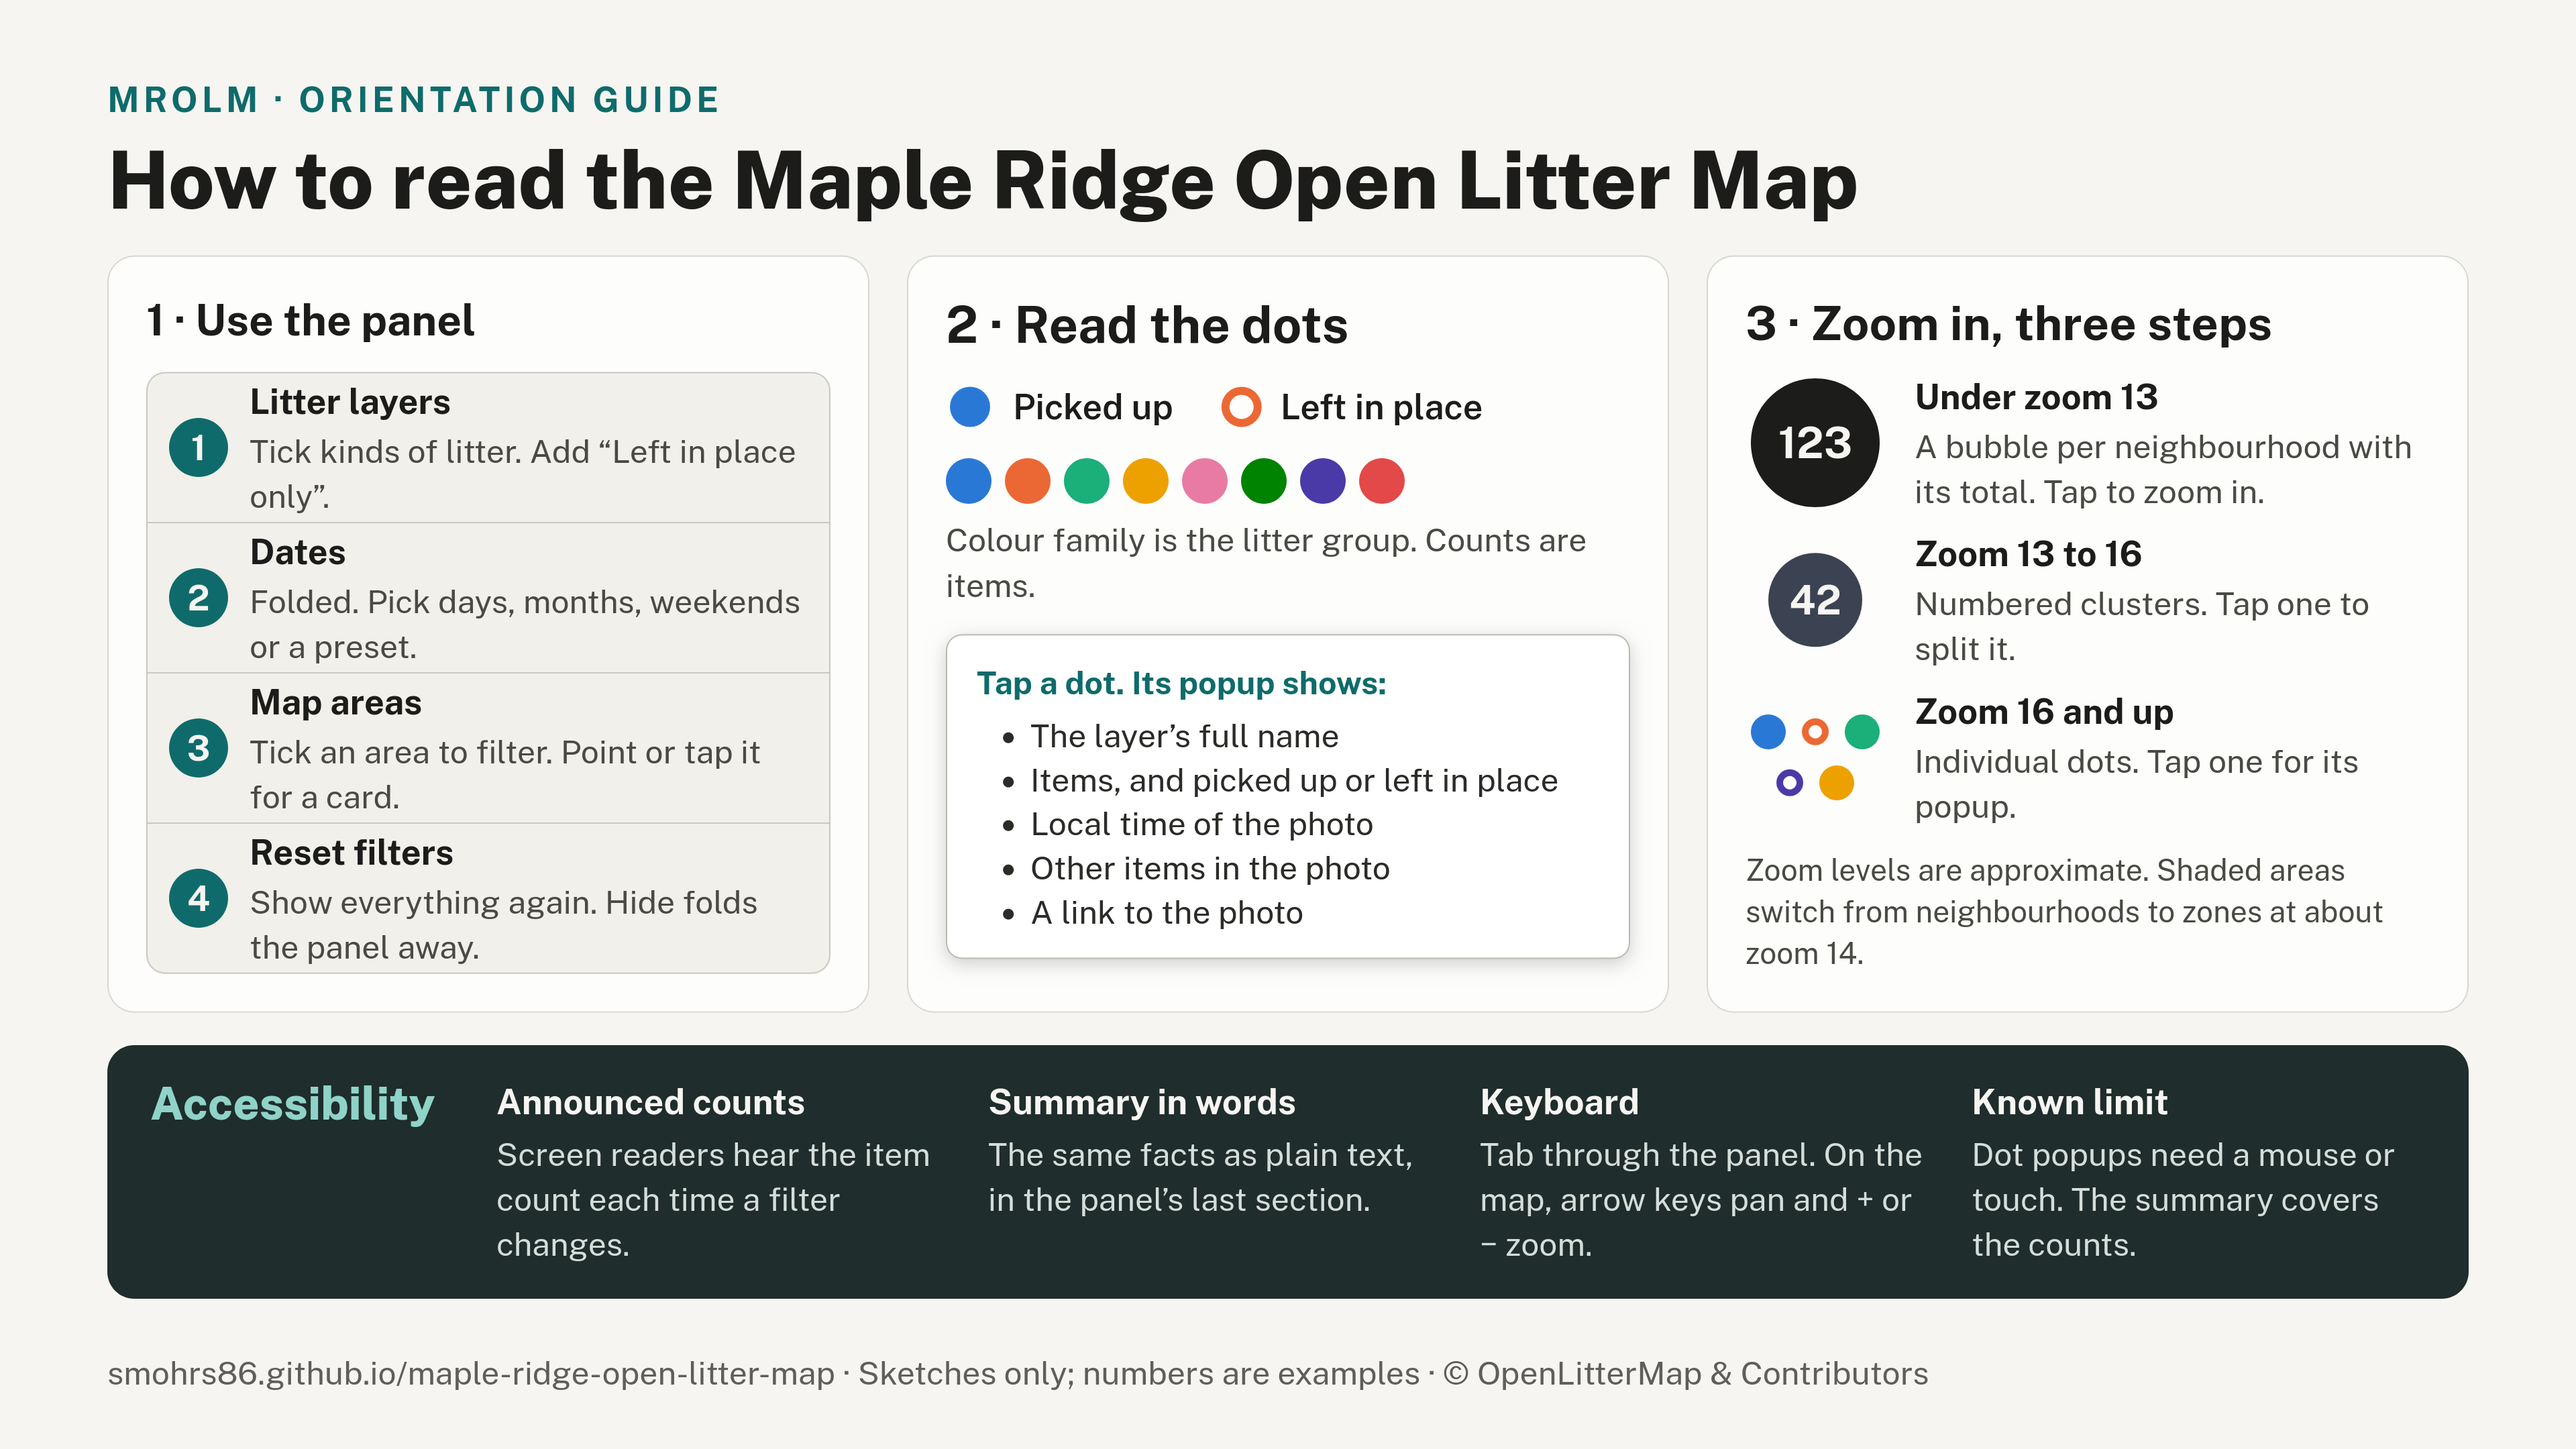
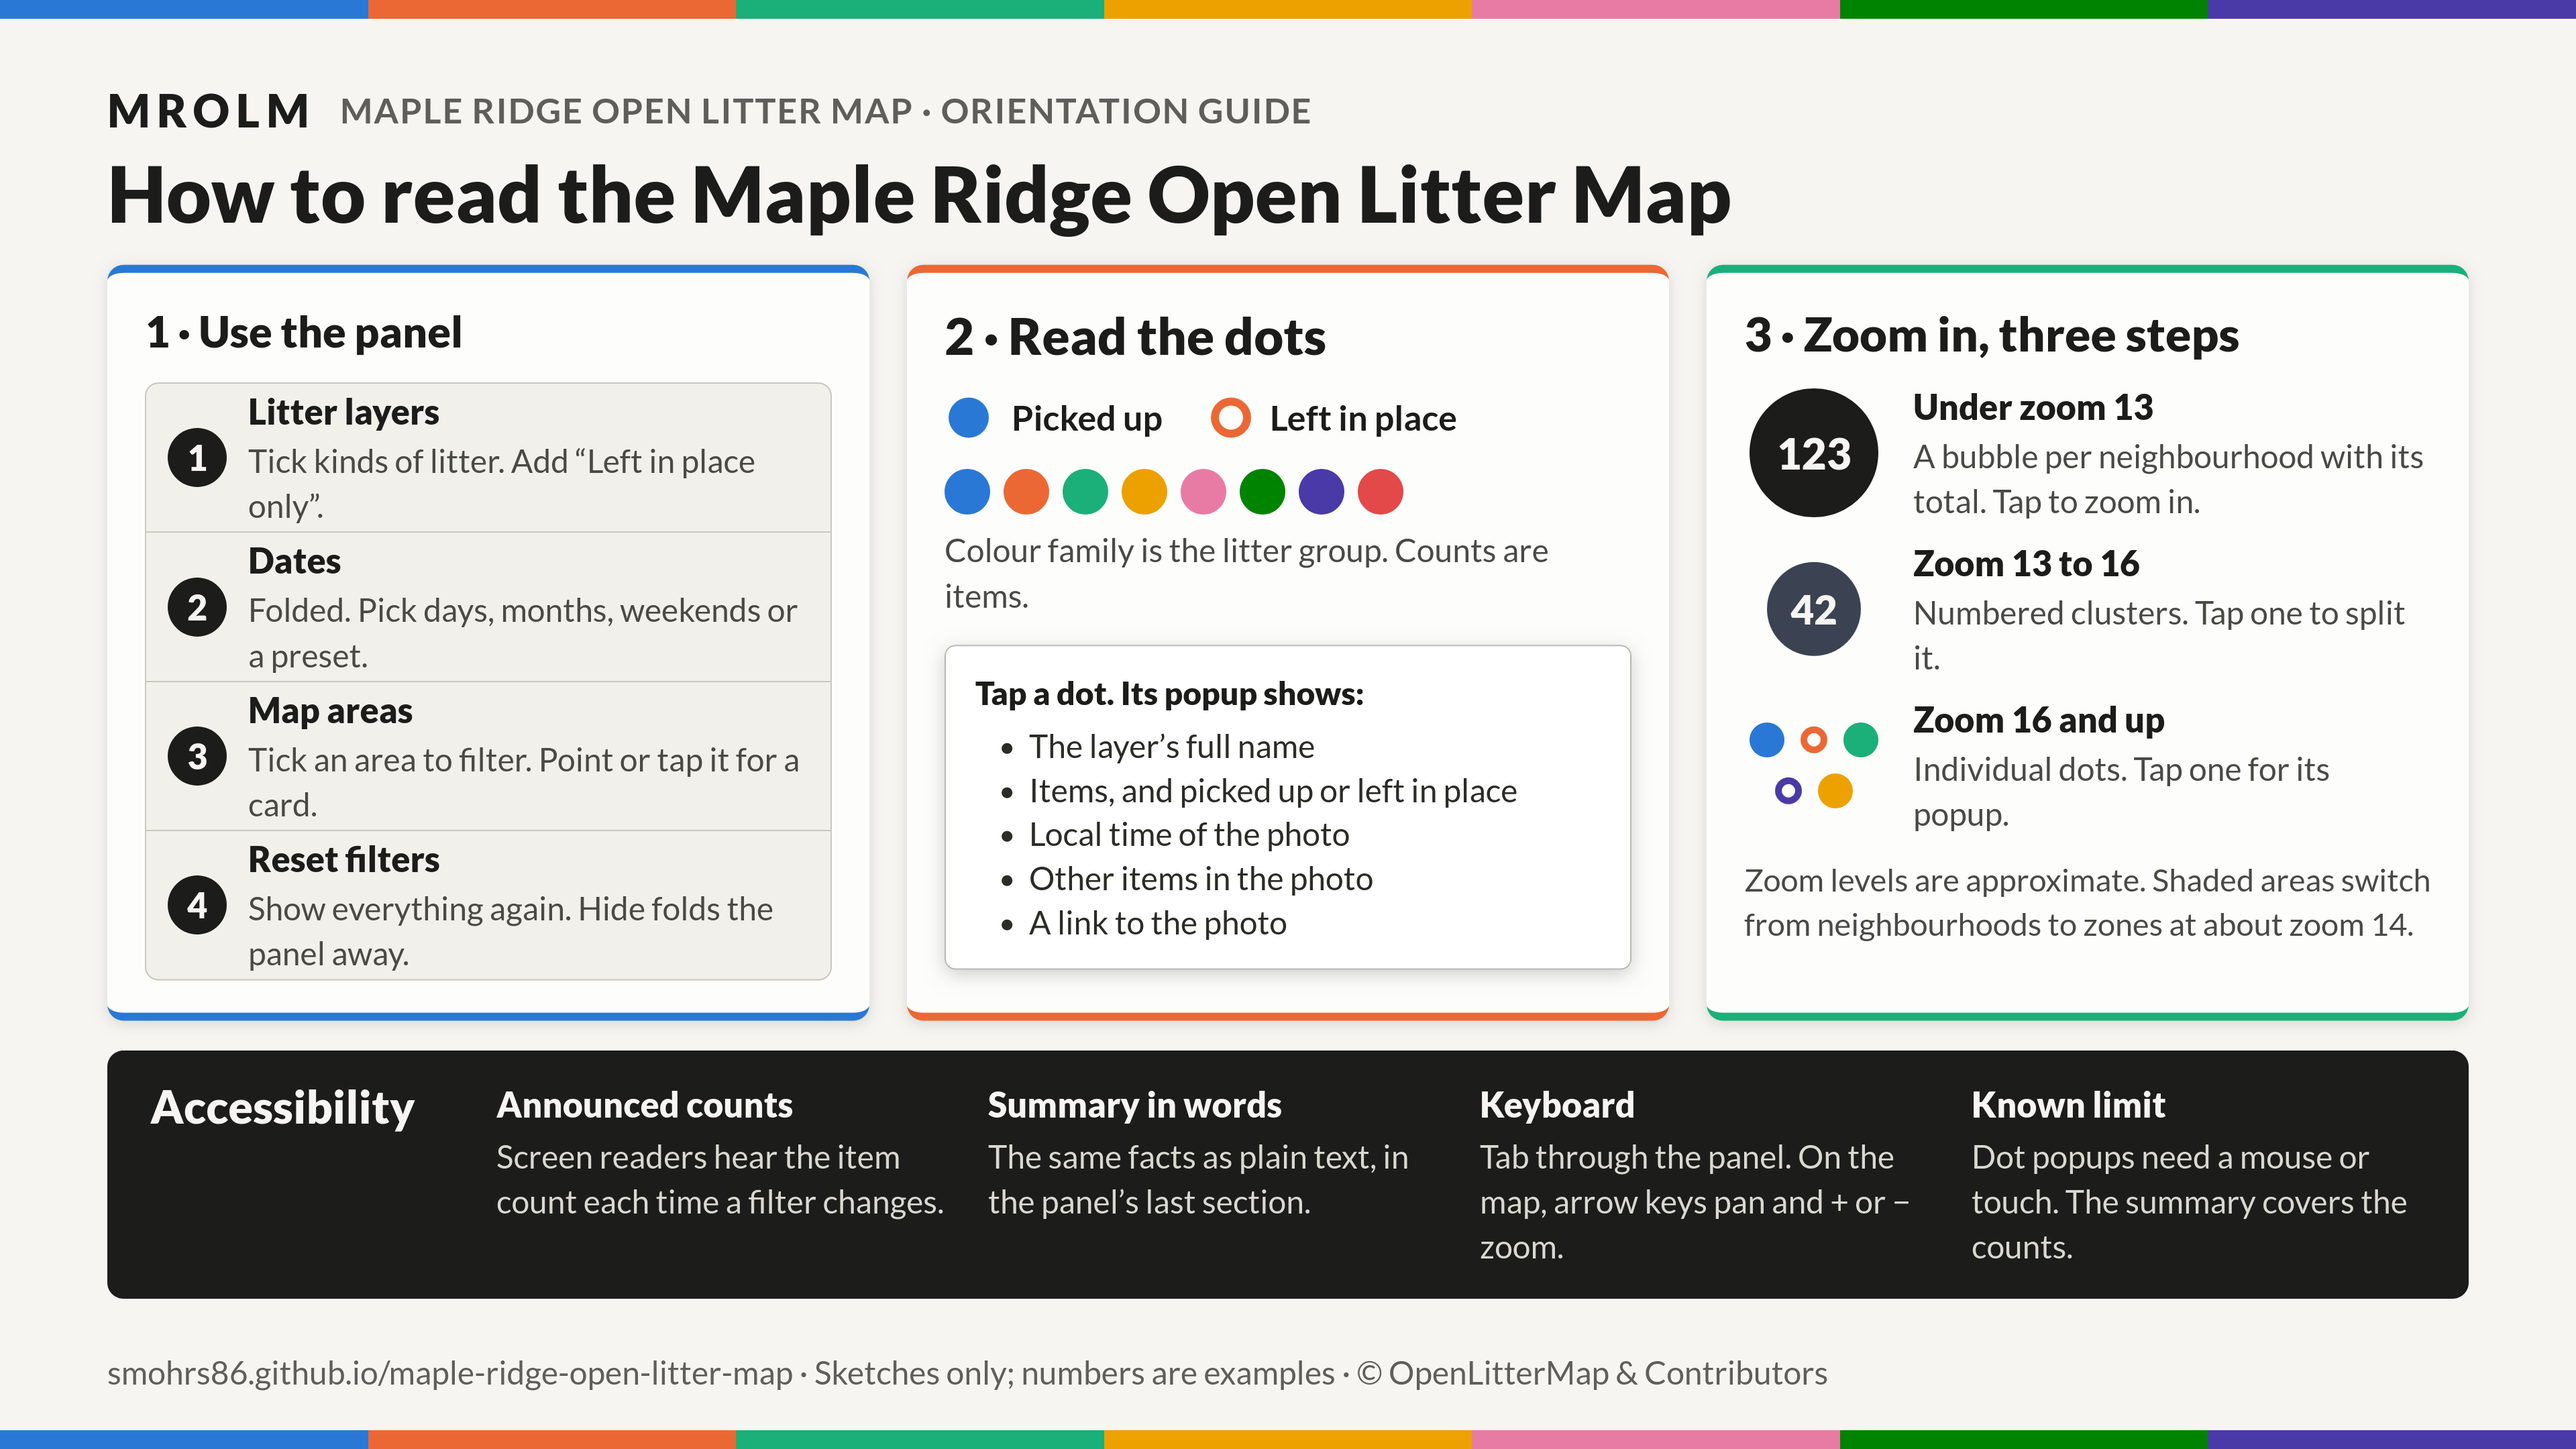
docs: add project overview, restyle orientation guide

Changed region(s): [[0.0312, 0.062, 0.9688, 0.8685], [0.0, 0.9306, 1.0, 1.0], [0.0, 0.0, 1.0, 0.031]]

diff --git a/README.md b/README.md
@@ -4,6 +4,8 @@
 
 **Live map:** https://smohrs86.github.io/maple-ridge-open-litter-map/
 
+[![A one-page overview of the project: from a photo of litter to a public data point on a map](assets/project-overview.png)](assets/project-overview.png)
+
 [![A one-page guide to using the map, reading the dots, the zoom steps and the accessibility features](assets/orientation-guide.png)](assets/orientation-guide.png)
 
 Litter is photographed and tagged in the field using [OpenLitterMap](https://openlittermap.com) (OLM), an open citizen-science platform. MROLM is an independent volunteer project, not part of OpenLitterMap. It pulls those records from the OLM API every 12 hours, sorts each tagged item into local litter categories, and publishes the result as a free, interactive web map. The goal is good open data for citizen science: a consistent, well-documented record of where litter is, what it is, and how that changes over time.
@@ -52,7 +54,7 @@ Not part of the proof of concept: GIS features, municipal streams, a license, an
 
 Newest first, one line per change. Claude updates this whenever it updates the README.
 
-- **2026-10-04:** Added a one-page orientation guide (`assets/orientation-guide.png`, shown under the live-map link): the panel, how to read the dots, the zoom steps and the accessibility features. It is a picture, so it needs redoing if the interface changes.
+- **2026-10-04:** Added a one-page project overview (`assets/project-overview.png`: the photo-to-map pipeline, why the project exists, data quality and open licences) and restyled the orientation guide in the MROLM brand colours. Both are shown under the live-map link. The orientation guide (`assets/orientation-guide.png`) covers: the panel, how to read the dots, the zoom steps and the accessibility features. It is a picture, so it needs redoing if the interface changes.
 - **2026-10-04:** Milestone: 3,113 photos from a single volunteer are on the map (3,802 tagged objects, 5,299 items), all legacy tags reviewed, with REVIEW, UNCLASS, orphan tags and unmapped all at 0.
 - **2026-10-03:** Crosswalk re-exported after the legacy review: the "OLM data needs fixes" notes were cleared and other notes tidied, so every object now shows as OK (REVIEW = 0). No rule changes (group, subgroup, local key and include are unchanged on every row).
 - **2026-10-03:** Stage 3 declared complete. Richer popups were confirmed achieved; the design review leftovers (colour, footer wording, contrast) were set aside on purpose.
@@ -304,7 +306,7 @@ Ongoing reliability work is listed in [docs/hardening.md](docs/hardening.md).
 ├── data/audit.md                     Audit report from the latest sync
 ├── public/data/litter.geojson        Copy of the dataset for hosting
 ├── index.html                        The web map
-├── assets/                           Favicon, link-preview image and the orientation guide
+├── assets/                           Favicon, link-preview image, project overview and orientation guide
 ├── docs/                             Tagging protocol, decision log, hardening list, batch review method, zones method, Maple Ridge neighbourhood sources
 ├── config/crosswalk.csv              The crosswalk, exported from the spreadsheet
 ├── config/neighbourhoods.csv         The map's neighbourhoods and their colours
